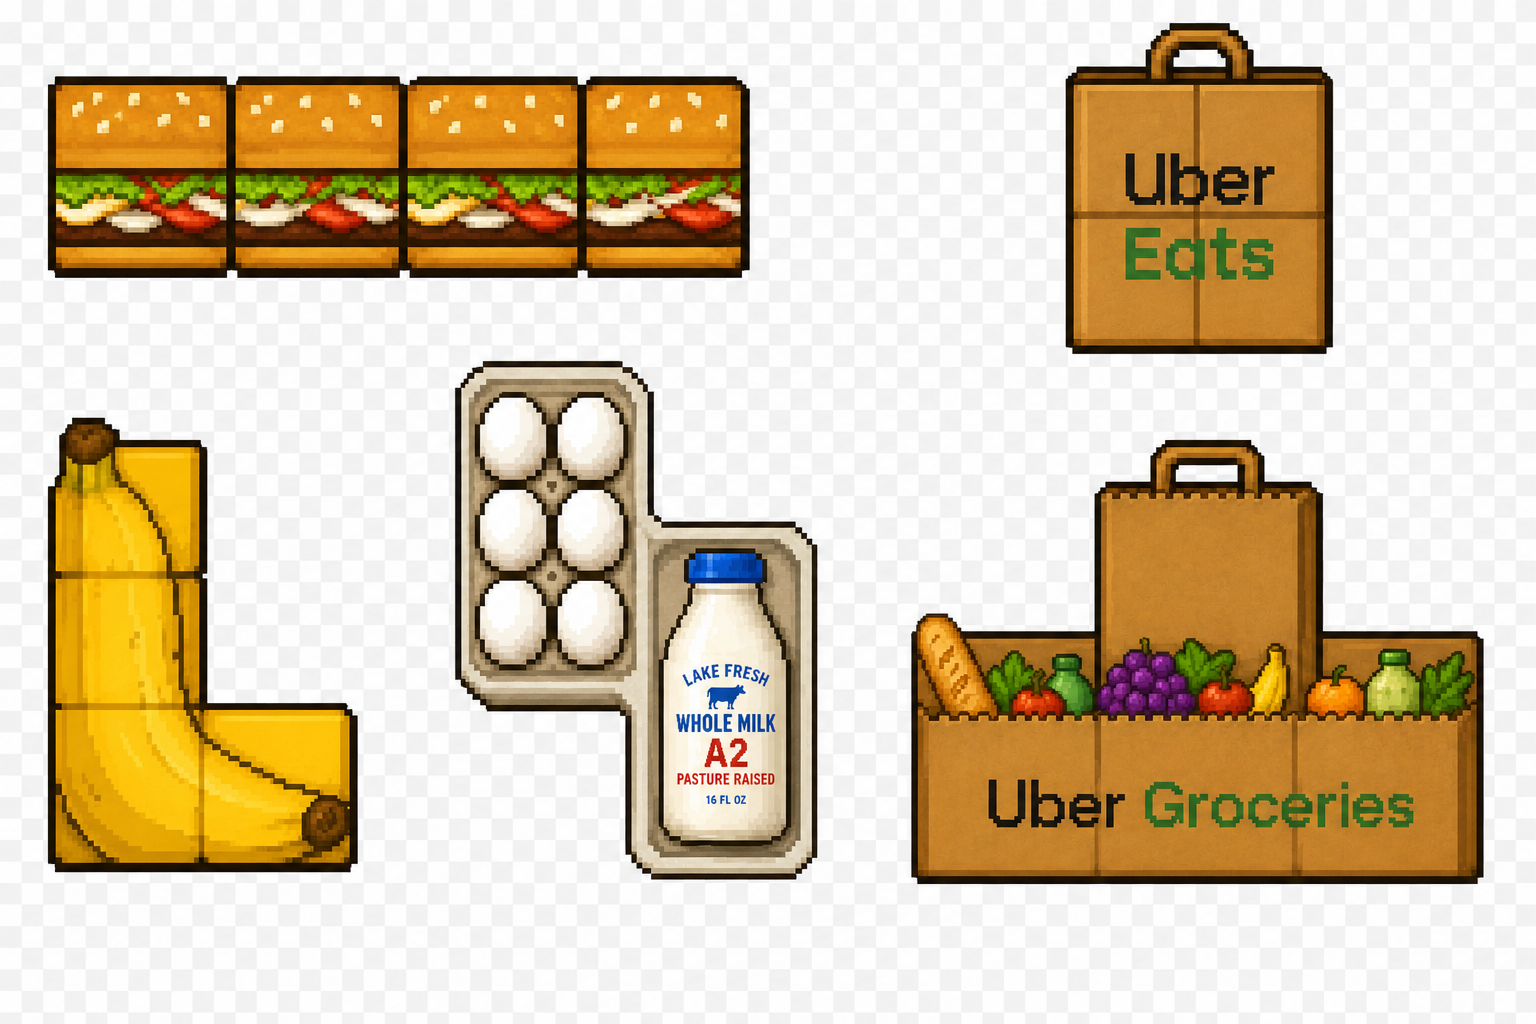
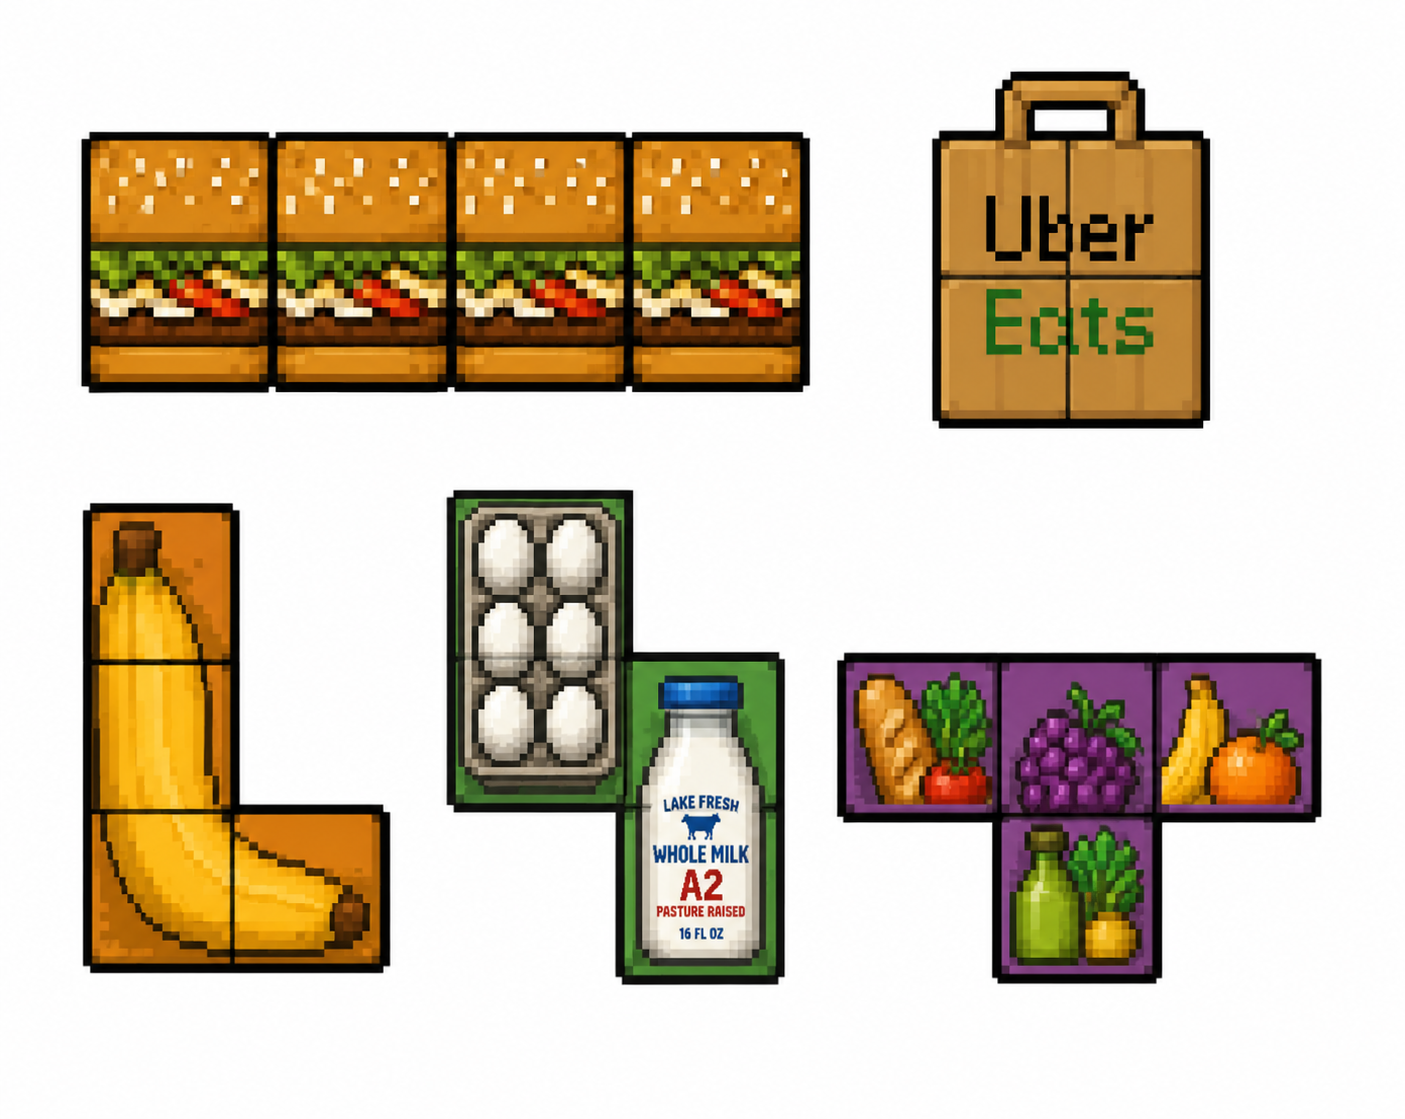
feat: swap in corrected sprite sheet (clean tetromino shapes)
New source art is grid-aligned with colored cell backings (orange L,
green S, purple T). Re-sliced via slice.py; all five pieces are now
proper 4-cell tetrominoes (groceries T = [[1,1,1],[0,1,0]], eggs S
zigzag) instead of the prior 5/7-cell chunks. Updated piece matrices.

diff --git a/pack-the-bag.html b/pack-the-bag.html
@@ -189,8 +189,8 @@
     I: { sprite: "sub",       cells: [[1,1,1,1]] },
     O: { sprite: "ubereats",  cells: [[1,1],[1,1]] },
     L: { sprite: "banana",    cells: [[1,0],[1,0],[1,1]] },
-    S: { sprite: "eggs",      cells: [[1,1],[1,1],[0,1]] },
-    T: { sprite: "groceries", cells: [[0,1,0],[1,1,1],[1,1,1]] }
+    S: { sprite: "eggs",      cells: [[1,0],[1,1],[0,1]] },
+    T: { sprite: "groceries", cells: [[1,1,1],[0,1,0]] }
   };
   const KEYS = Object.keys(PIECES);
   const SPRITE_SRC = {

diff --git a/assets/slice.py b/assets/slice.py
@@ -28,11 +28,11 @@ print("opaque px:", int(opaque.sum()), "of", W * H)
 
 # ---- 2. manual regions (generous; tight-cropped below). x0,y0,x1,y1 ----
 REGIONS = {
-    "sub":       (20,   40,  790,  300),
-    "ubereats":  (1020, 20, 1480,  450),
-    "banana":    (20,  390,  400,  920),
-    "eggs":      (410, 350,  870,  900),
-    "groceries": (880, 420, 1530,  970),
+    "sub":       (40,   85,  850,  430),
+    "ubereats":  (860,  30, 1275,  460),
+    "banana":    (40,  460,  410, 1040),
+    "eggs":      (412, 435,  808, 1040),
+    "groceries": (812, 590, 1400, 1040),
 }
 
 def tight_bbox(mask, x0, y0, x1, y1):
